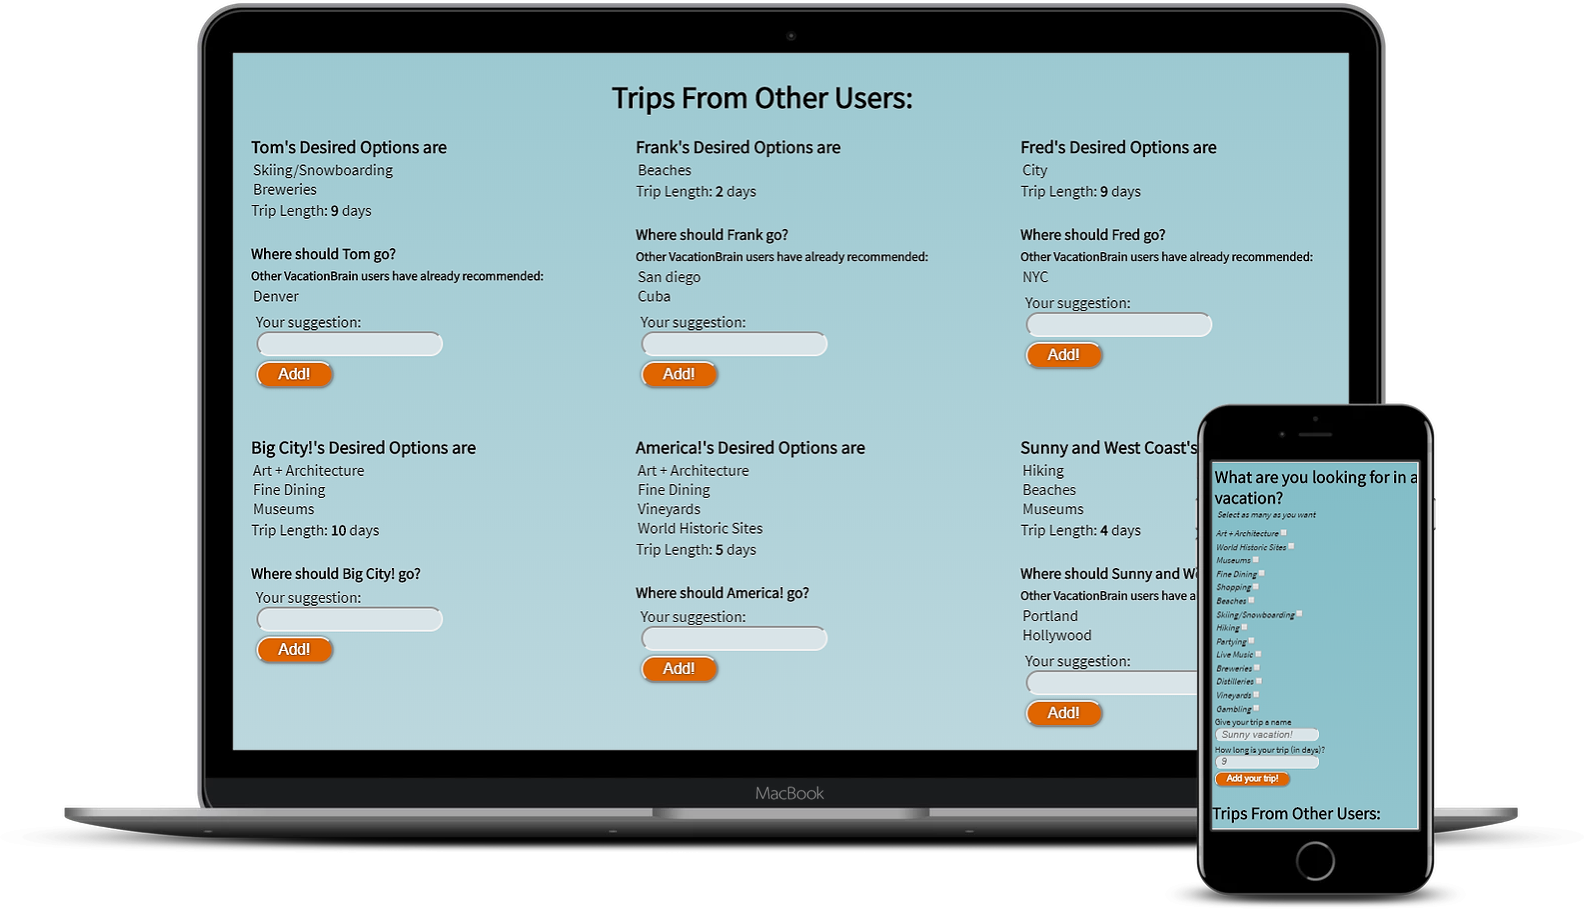
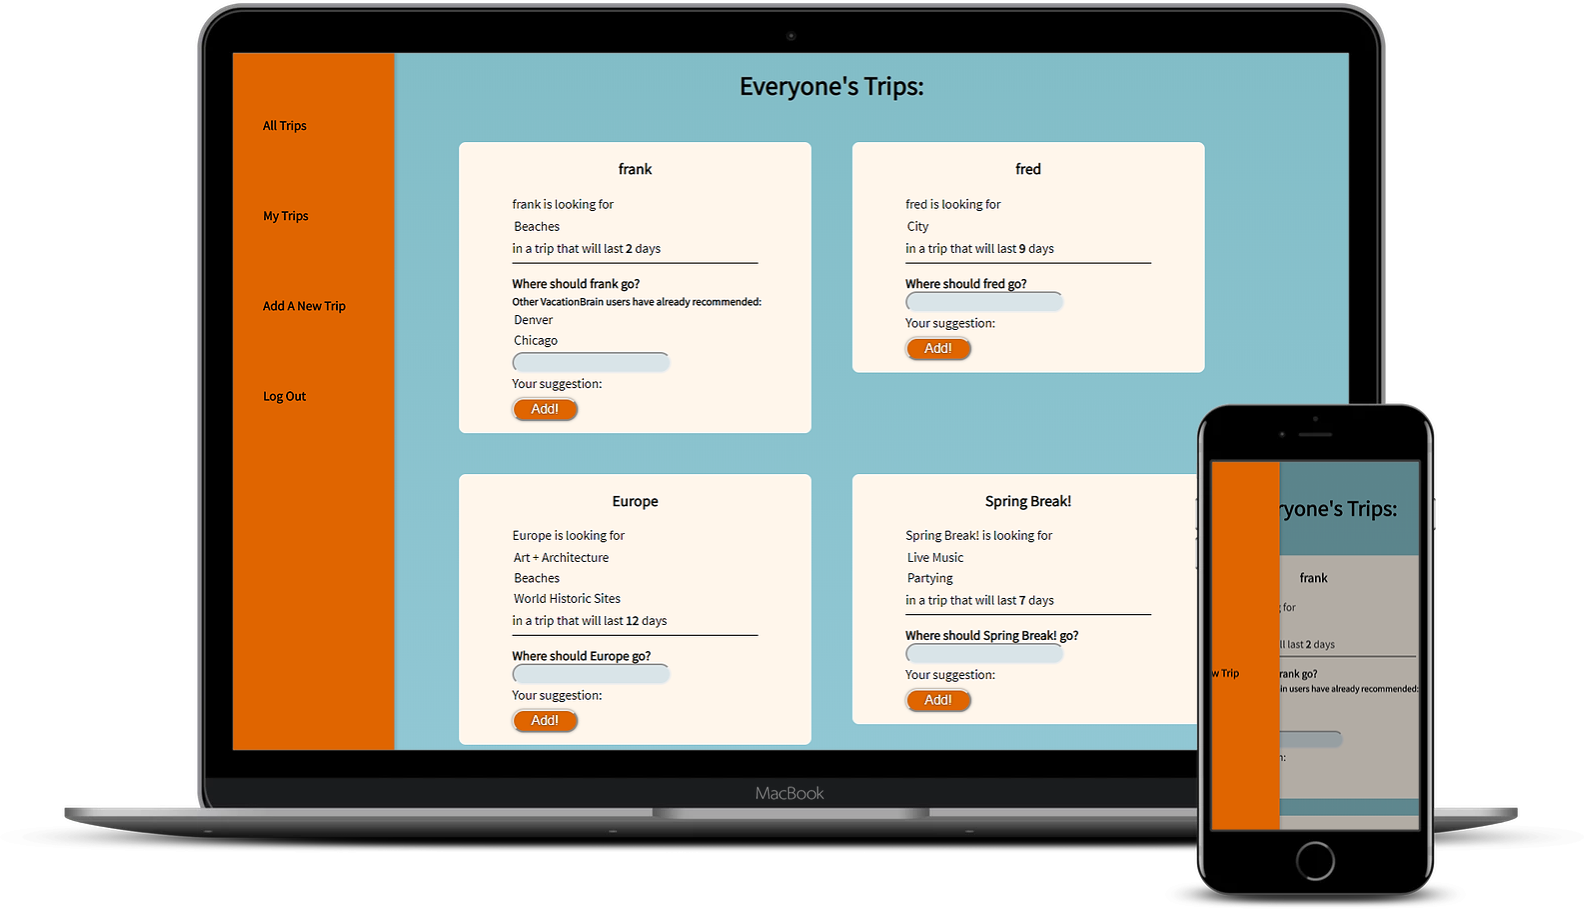
added screenshot for spanishx

diff --git a/index.html b/index.html
@@ -111,7 +111,7 @@
         <p class="app-tagline">Have fun while learning Spanish!</p>
         <div class="mockup-container">
           <a class="mockup" href="https://spaced-repetition-codey-ethan.herokuapp.com/" target="_blank">
-            <img src="images/vacation-brain-mockup.png" alt="SpanishX mockup"/>
+            <img src="images/spanishx-mockup.png" alt="SpanishX mockup"/>
           </a>
         </div>
         <div class= "info-container">
